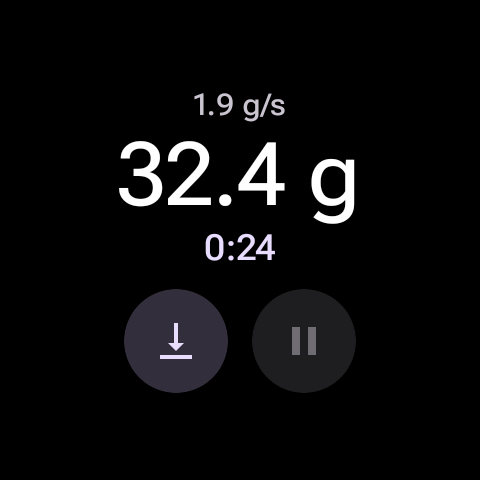
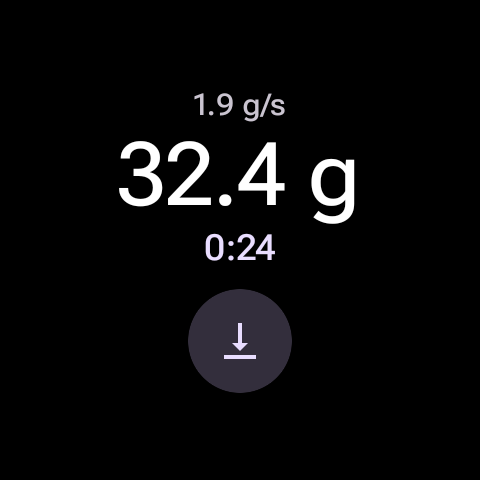
Watch mirrors the phone's Scale mode: same timer, start/pause and reset
Home and the watch now share ScaleTimer, so the timer button shows the same
state on both. Outside a brew the watch shows "Scale" with tare, start/pause
and reset, like Home.

Changed region(s): [[0.25, 0.5938, 0.75, 0.8438]]

diff --git a/wear/src/main/java/io/github/mateuxlucax/caparao/wear/WatchScreen.kt b/wear/src/main/java/io/github/mateuxlucax/caparao/wear/WatchScreen.kt
@@ -26,16 +26,19 @@ import androidx.wear.compose.material3.Text
 import io.github.mateuxlucax.caparao.watch.WatchSnapshot
 import io.github.mateuxlucax.caparao.watch.WatchState
 
-/** Flow on top, the weight large in the middle, the timer under it, tare and timer buttons at the bottom. */
+/**
+ * The mode or the flow on top, the weight large in the middle, the timer under it; tare, and in Scale mode the timer's
+ * start or pause and reset, at the bottom.
+ */
 @Composable
-fun WatchScreen(snapshot: WatchSnapshot?, onTare: () -> Unit, onTimer: (running: Boolean) -> Unit) {
+fun WatchScreen(snapshot: WatchSnapshot?, onTare: () -> Unit, onTimer: () -> Unit, onReset: () -> Unit) {
     MaterialTheme {
         ScreenScaffold {
             Box(Modifier.fillMaxSize().padding(horizontal = 24.dp), contentAlignment = Alignment.Center) {
                 when {
                     snapshot == null -> Message(stringResource(R.string.open_on_phone))
                     snapshot.state == WatchState.DISCONNECTED -> Message(stringResource(R.string.scale_disconnected))
-                    else -> Readout(snapshot, onTare, onTimer)
+                    else -> Readout(snapshot, onTare, onTimer, onReset)
                 }
             }
         }
@@ -48,11 +51,10 @@ private fun Message(text: String) {
 }
 
 @Composable
-private fun Readout(snapshot: WatchSnapshot, onTare: () -> Unit, onTimer: (running: Boolean) -> Unit) {
-    // A brew runs its own clock; outside one the buttons drive the scale's timer.
-    val running = snapshot.state == WatchState.BREWING || snapshot.timerRunning
+private fun Readout(snapshot: WatchSnapshot, onTare: () -> Unit, onTimer: () -> Unit, onReset: () -> Unit) {
     Column(horizontalAlignment = Alignment.CenterHorizontally) {
         val label = when (snapshot.state) {
+            WatchState.SCALE -> stringResource(R.string.mode_scale)
             WatchState.READY -> stringResource(R.string.state_ready)
             WatchState.DONE -> stringResource(R.string.state_done)
             else -> WatchFormat.flow(snapshot.flowGramsPerSecond)
@@ -61,15 +63,21 @@ private fun Readout(snapshot: WatchSnapshot, onTare: () -> Unit, onTimer: (runni
         Text(WatchFormat.grams(snapshot.weightGrams), fontSize = 44.sp, fontWeight = FontWeight.Medium, maxLines = 1)
         Text(WatchFormat.time(snapshot.elapsedMs), style = MaterialTheme.typography.titleLarge, color = MaterialTheme.colorScheme.primary)
         Spacer(Modifier.height(10.dp))
-        Row(horizontalArrangement = Arrangement.spacedBy(12.dp)) {
+        Row(horizontalArrangement = Arrangement.spacedBy(8.dp), verticalAlignment = Alignment.CenterVertically) {
             FilledTonalIconButton(onClick = onTare) {
                 Icon(painterResource(R.drawable.ic_tare), contentDescription = stringResource(R.string.tare))
             }
-            FilledIconButton(onClick = { onTimer(snapshot.timerRunning) }, enabled = snapshot.state == WatchState.SCALE) {
-                Icon(
-                    painterResource(if (running) R.drawable.ic_pause else R.drawable.ic_play_arrow),
-                    contentDescription = stringResource(if (running) R.string.timer_stop else R.string.timer_start),
-                )
+            // Scale mode's timer, the same three buttons as the phone's Home; a brew runs its own clock.
+            if (snapshot.state == WatchState.SCALE) {
+                FilledIconButton(onClick = onTimer) {
+                    Icon(
+                        painterResource(if (snapshot.timerRunning) R.drawable.ic_pause else R.drawable.ic_play_arrow),
+                        contentDescription = stringResource(if (snapshot.timerRunning) R.string.timer_pause else R.string.timer_start),
+                    )
+                }
+                FilledTonalIconButton(onClick = onReset) {
+                    Icon(painterResource(R.drawable.ic_replay), contentDescription = stringResource(R.string.timer_reset))
+                }
             }
         }
     }

diff --git a/app/src/main/java/io/github/mateuxlucax/caparao/WatchLink.kt b/app/src/main/java/io/github/mateuxlucax/caparao/WatchLink.kt
@@ -9,8 +9,8 @@ import com.google.android.gms.wearable.CapabilityClient
 import com.google.android.gms.wearable.MessageClient
 import com.google.android.gms.wearable.Wearable
 import io.github.mateuxlucax.caparao.data.scale.ScaleSource
-import io.github.mateuxlucax.caparao.data.scale.TimerAction
 import io.github.mateuxlucax.caparao.ui.brew.BrewUiState
+import io.github.mateuxlucax.caparao.ui.home.ScaleTimer
 import io.github.mateuxlucax.caparao.ui.watch.SnapshotThrottle
 import io.github.mateuxlucax.caparao.ui.watch.WatchMirror
 import io.github.mateuxlucax.caparao.watch.WatchPaths
@@ -27,7 +27,7 @@ import kotlinx.coroutines.tasks.await
  * (docs/adr/0023-watch-companion.md). Runs while the app is visible, like the scale connection; with no watch it
  * finds no node and sends nothing.
  */
-class WatchLink(context: Context, private val scope: CoroutineScope, private val scale: () -> ScaleSource) {
+class WatchLink(context: Context, private val scope: CoroutineScope, private val timer: ScaleTimer, private val scale: () -> ScaleSource) {
     private val appContext = context.applicationContext
     private val messages = Wearable.getMessageClient(appContext)
     private val capabilities = Wearable.getCapabilityClient(appContext)
@@ -35,24 +35,14 @@ class WatchLink(context: Context, private val scope: CoroutineScope, private val
     /** The open brew screen's state, null without one (BrewViewModel.onLive). */
     val brew = MutableStateFlow<BrewUiState?>(null)
 
-    /** The scale's timer as last asked from the watch; the Dot does not report it. */
-    private var timerRunning = false
     private var watchNodes: List<String> = emptyList()
     private var job: Job? = null
 
     private val listener = MessageClient.OnMessageReceivedListener { event ->
-        val source = scale()
         when (event.path) {
-            WatchPaths.TARE -> source.tare()
-            WatchPaths.TIMER_START -> {
-                source.timer(TimerAction.RESET)
-                source.timer(TimerAction.START)
-                timerRunning = true
-            }
-            WatchPaths.TIMER_STOP -> {
-                source.timer(TimerAction.PAUSE)
-                timerRunning = false
-            }
+            WatchPaths.TARE -> scale().tare()
+            WatchPaths.TIMER_TOGGLE -> timer.toggle()
+            WatchPaths.TIMER_RESET -> timer.reset()
         }
     }
 
@@ -65,9 +55,8 @@ class WatchLink(context: Context, private val scope: CoroutineScope, private val
             val source = scale()
             var lastState: WatchState? = null
             // Readings arrive about 10 times a second even when equal; state and brew changes cover the gaps.
-            merge(source.readings, source.state, brew).collect {
-                val snapshot = WatchMirror.snapshot(source.state.value, source.reading.value, brew.value, timerRunning)
-                if (snapshot.state == WatchState.DISCONNECTED) timerRunning = false
+            merge(source.readings, source.state, brew, timer.running).collect {
+                val snapshot = WatchMirror.snapshot(source.state.value, source.reading.value, brew.value, timer.running.value)
                 if (snapshot.state == WatchState.READY && lastState != WatchState.READY) openOnWatch()
                 lastState = snapshot.state
                 if (throttle.offer(SystemClock.elapsedRealtime(), snapshot)) send(snapshot.encode())

diff --git a/app/src/main/java/io/github/mateuxlucax/caparao/ui/home/HomeViewModel.kt b/app/src/main/java/io/github/mateuxlucax/caparao/ui/home/HomeViewModel.kt
@@ -3,10 +3,8 @@ package io.github.mateuxlucax.caparao.ui.home
 import androidx.lifecycle.ViewModel
 import androidx.lifecycle.viewModelScope
 import io.github.mateuxlucax.caparao.data.scale.ScaleSource
-import io.github.mateuxlucax.caparao.data.scale.TimerAction
 import io.github.mateuxlucax.caparao.model.ScaleReading
 import io.github.mateuxlucax.caparao.model.ScaleState
-import kotlinx.coroutines.flow.MutableStateFlow
 import kotlinx.coroutines.flow.SharingStarted
 import kotlinx.coroutines.flow.StateFlow
 import kotlinx.coroutines.flow.combine
@@ -20,25 +18,17 @@ data class HomeUiState(
 )
 
 /** The live scale readout: connection, weight, flow, battery, and the tare and timer controls. */
-class HomeViewModel(private val scale: ScaleSource) : ViewModel() {
-    private val timerRunning = MutableStateFlow(false)
+class HomeViewModel(private val scale: ScaleSource, private val timer: ScaleTimer = ScaleTimer { scale }) : ViewModel() {
 
-    val uiState: StateFlow<HomeUiState> = combine(scale.state, scale.reading, timerRunning) { state, reading, running ->
+    val uiState: StateFlow<HomeUiState> = combine(scale.state, scale.reading, timer.running) { state, reading, running ->
         HomeUiState(state, reading, running && state is ScaleState.Connected)
     }.stateIn(viewModelScope, SharingStarted.WhileSubscribed(5_000), HomeUiState(scale.state.value, scale.reading.value))
 
     fun tare() = scale.tare()
 
-    fun toggleTimer() {
-        val running = !timerRunning.value
-        scale.timer(if (running) TimerAction.START else TimerAction.PAUSE)
-        timerRunning.value = running
-    }
+    fun toggleTimer() = timer.toggle()
 
-    fun resetTimer() {
-        scale.timer(TimerAction.RESET)
-        timerRunning.value = false
-    }
+    fun resetTimer() = timer.reset()
 
     /** After the user fixed what stopped the connection (Bluetooth, permission). */
     fun retry() {

diff --git a/app/src/main/java/io/github/mateuxlucax/caparao/AppContainer.kt b/app/src/main/java/io/github/mateuxlucax/caparao/AppContainer.kt
@@ -20,6 +20,7 @@ import io.github.mateuxlucax.caparao.ui.brew.BrewViewModel
 import io.github.mateuxlucax.caparao.ui.brews.BrewDetailViewModel
 import io.github.mateuxlucax.caparao.ui.brews.BrewsViewModel
 import io.github.mateuxlucax.caparao.ui.home.HomeViewModel
+import io.github.mateuxlucax.caparao.ui.home.ScaleTimer
 import io.github.mateuxlucax.caparao.ui.onboarding.OnboardingViewModel
 import io.github.mateuxlucax.caparao.ui.settings.ScaleStatusViewModel
 import io.github.mateuxlucax.caparao.ui.settings.ServerViewModel
@@ -67,12 +68,15 @@ class AppContainer(context: Context) {
         scale = ReplayScaleSource(scope, lines, startAtMs)
     }
 
+    /** Scale mode's timer, driven from Home and the watch. */
+    private val scaleTimer = ScaleTimer { scale }
+
     /** The paired watch, if any (docs/adr/0023-watch-companion.md); reads [scale] when it starts. */
-    val watch = WatchLink(appContext, scope) { scale }
+    val watch = WatchLink(appContext, scope, scaleTimer) { scale }
 
     /** Creates the screens' ViewModels with their dependencies; reads [scale] when each ViewModel is created. */
     val viewModelFactory: ViewModelProvider.Factory = viewModelFactory {
-        initializer { HomeViewModel(scale) }
+        initializer { HomeViewModel(scale, scaleTimer) }
         initializer { OnboardingViewModel(scale) { settings.onboardingDone = true } }
         initializer { ScaleStatusViewModel(scale) }
         initializer { TargetRatioViewModel(settings) }

diff --git a/wear/src/main/java/io/github/mateuxlucax/caparao/wear/WatchActivity.kt b/wear/src/main/java/io/github/mateuxlucax/caparao/wear/WatchActivity.kt
@@ -47,7 +47,8 @@ class WatchActivity : ComponentActivity() {
             WatchScreen(
                 snapshot.value,
                 onTare = { send(WatchPaths.TARE) },
-                onTimer = { running -> send(if (running) WatchPaths.TIMER_STOP else WatchPaths.TIMER_START) },
+                onTimer = { send(WatchPaths.TIMER_TOGGLE) },
+                onReset = { send(WatchPaths.TIMER_RESET) },
             )
         }
         // The phone closed or went out of range: back to "open the app" instead of a frozen weight.
@@ -93,7 +94,7 @@ class WatchActivity : ComponentActivity() {
 
         private val DEMOS = mapOf(
             WatchState.DISCONNECTED to WatchSnapshot(WatchState.DISCONNECTED, 0f, 0f, 0, false),
-            WatchState.SCALE to WatchSnapshot(WatchState.SCALE, 17.8f, 0f, 0, false),
+            WatchState.SCALE to WatchSnapshot(WatchState.SCALE, 17.8f, 0f, 42_000, true),
             WatchState.READY to WatchSnapshot(WatchState.READY, 0f, 0f, 0, false),
             WatchState.BREWING to WatchSnapshot(WatchState.BREWING, 32.4f, 1.9f, 24_000, false),
             WatchState.DONE to WatchSnapshot(WatchState.DONE, 36.1f, 0f, 28_400, false),

diff --git a/app/src/main/java/io/github/mateuxlucax/caparao/ui/home/ScaleTimer.kt b/app/src/main/java/io/github/mateuxlucax/caparao/ui/home/ScaleTimer.kt
@@ -1,0 +1,27 @@
+package io.github.mateuxlucax.caparao.ui.home
+
+import io.github.mateuxlucax.caparao.data.scale.ScaleSource
+import io.github.mateuxlucax.caparao.data.scale.TimerAction
+import kotlinx.coroutines.flow.MutableStateFlow
+import kotlinx.coroutines.flow.StateFlow
+import kotlinx.coroutines.flow.asStateFlow
+
+/**
+ * The scale's timer as Scale mode drives it, shared by Home and the watch so both show the same button. The Dot does
+ * not report whether its timer runs, so this remembers what was asked.
+ */
+class ScaleTimer(private val scale: () -> ScaleSource) {
+    private val _running = MutableStateFlow(false)
+    val running: StateFlow<Boolean> = _running.asStateFlow()
+
+    fun toggle() {
+        val running = !_running.value
+        scale().timer(if (running) TimerAction.START else TimerAction.PAUSE)
+        _running.value = running
+    }
+
+    fun reset() {
+        scale().timer(TimerAction.RESET)
+        _running.value = false
+    }
+}

diff --git a/wearlink/src/main/kotlin/io/github/mateuxlucax/caparao/watch/WatchSnapshot.kt b/wearlink/src/main/kotlin/io/github/mateuxlucax/caparao/watch/WatchSnapshot.kt
@@ -7,7 +7,7 @@ enum class WatchState {
     /** The phone app is open but not connected to the scale. */
     DISCONNECTED,
 
-    /** Connected, no brew open: the weight while grinding or weighing. */
+    /** Connected, no brew open: the phone's Scale mode (weight, flow, timer, tare). */
     SCALE,
 
     /** A brew is open and waiting for the cup, the tare or the first drop. */
@@ -22,7 +22,7 @@ enum class WatchState {
 
 /**
  * What the phone sends the watch about 5 times a second. [elapsedMs] is the brew time while a brew runs and the
- * scale's own timer otherwise; [timerRunning] says which way the watch's timer button goes.
+ * scale's own timer otherwise; [timerRunning] is Scale mode's timer button, the same as on the phone.
  */
 data class WatchSnapshot(
     val state: WatchState,

diff --git a/wearlink/src/main/kotlin/io/github/mateuxlucax/caparao/watch/WatchPaths.kt b/wearlink/src/main/kotlin/io/github/mateuxlucax/caparao/watch/WatchPaths.kt
@@ -8,11 +8,11 @@ object WatchPaths {
     /** Watch to phone: tare the scale. */
     const val TARE = "/caparao/tare"
 
-    /** Watch to phone: reset the scale's timer and start it. */
-    const val TIMER_START = "/caparao/timer/start"
+    /** Watch to phone: start or pause the scale's timer, as Home's button does. */
+    const val TIMER_TOGGLE = "/caparao/timer/toggle"
 
-    /** Watch to phone: pause the scale's timer, keeping its time. */
-    const val TIMER_STOP = "/caparao/timer/stop"
+    /** Watch to phone: reset the scale's timer. */
+    const val TIMER_RESET = "/caparao/timer/reset"
 
     /** Declared by the watch app (res/values/wear.xml): where the phone sends snapshots. */
     const val WATCH_CAPABILITY = "caparao_watch"
